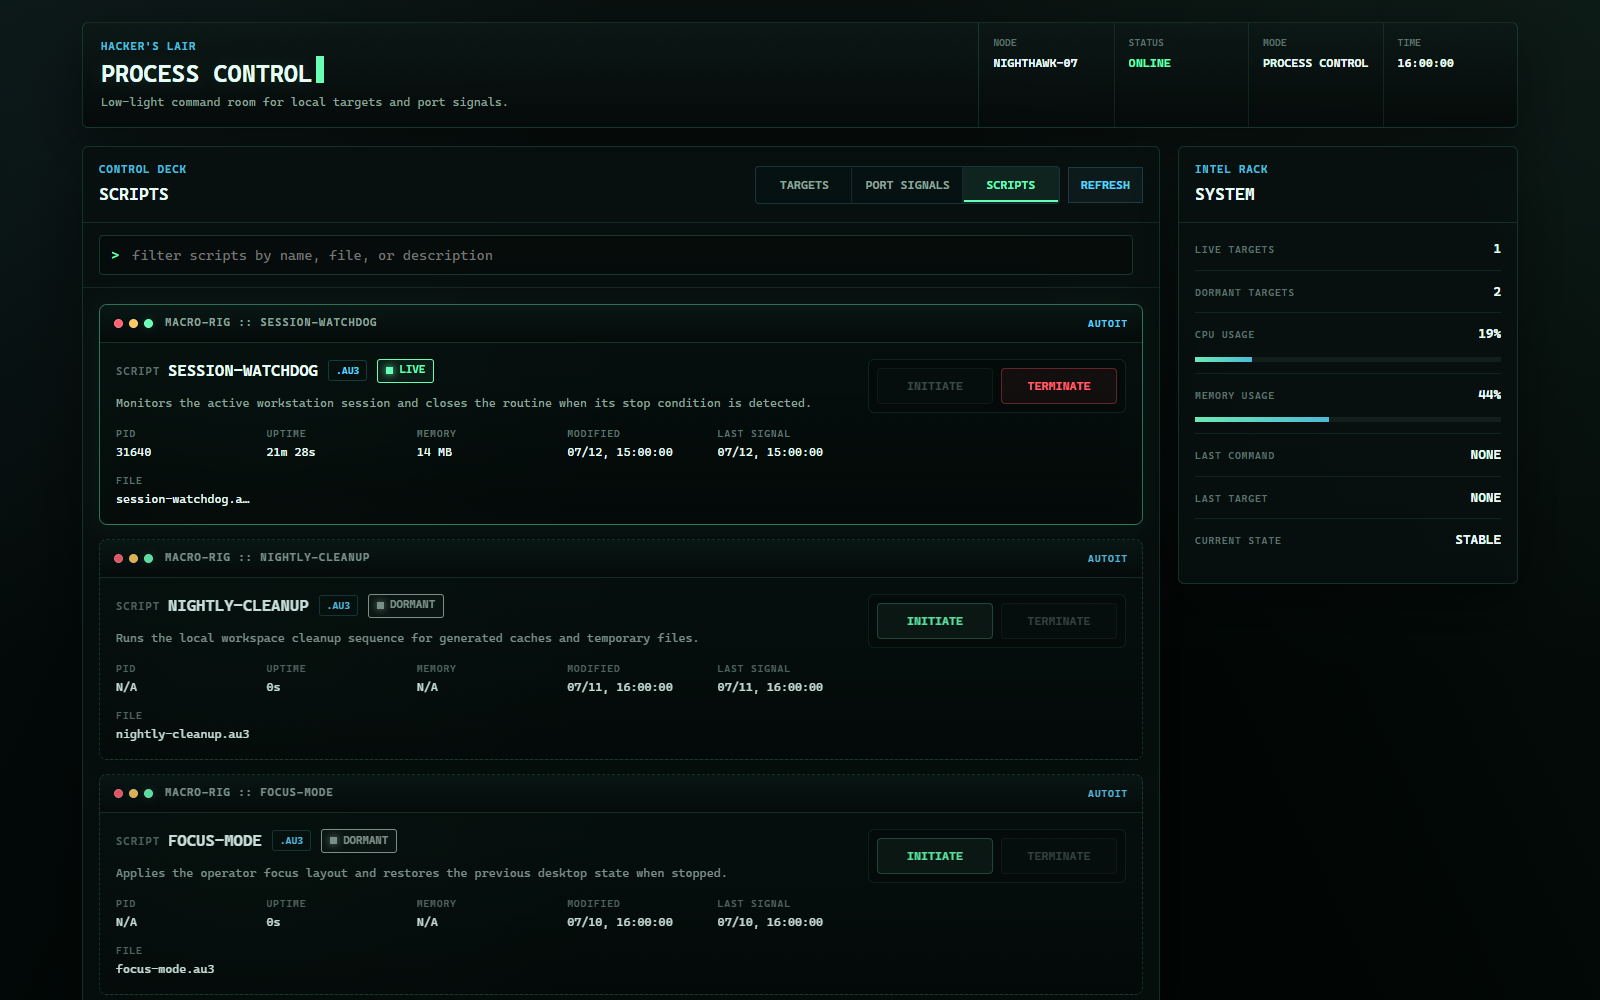
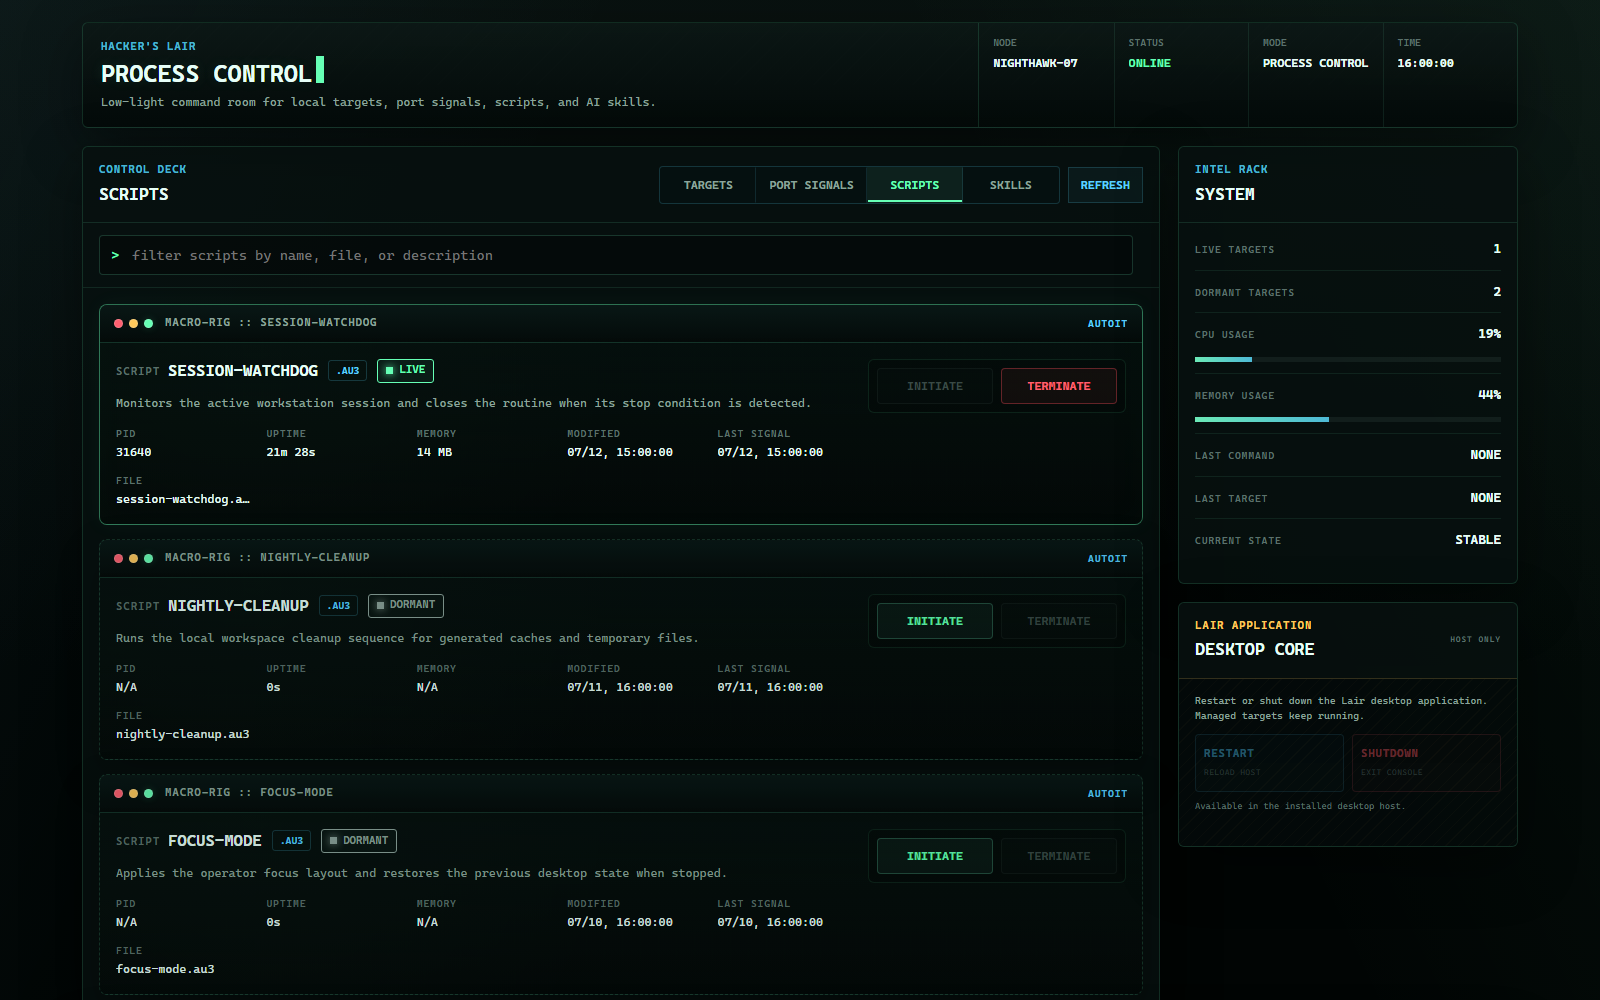
docs: refresh feature guide and screenshots

diff --git a/scripts/capture-readme-screenshots.js b/scripts/capture-readme-screenshots.js
@@ -14,9 +14,9 @@ const component = (name, role, port, running, pid) => ({
   uptimeSeconds: running ? 8421 : null, lastActionAt: now - 420000, livePorts: running ? [port] : [],
 });
 const projects = [
-  { name: 'nightwatch-relay', type: 'Vite + Node API', components: [component('relay-ui', 'frontend', 5173, true, 18420), component('relay-api', 'backend', 4100, true, 22108)], running: true, partial: false, errored: false, starting: false, pids: [18420, 22108], memKB: 372480, cpuPercent: 4.8, uptimeSeconds: 8421, lastActionAt: now - 420000 },
-  { name: 'atlas-worker', type: 'Python task runner', components: [component('atlas-worker', 'headless', null, true, 27144)], running: true, partial: false, errored: false, starting: false, pids: [27144], memKB: 92160, cpuPercent: 1.1, uptimeSeconds: 3644, lastActionAt: now - 910000 },
-  { name: 'static-forge', type: 'Next.js workspace', components: [component('static-forge', 'fullstack', 3000, false)], running: false, partial: false, errored: false, starting: false, pids: [], memKB: 0, cpuPercent: null, uptimeSeconds: null, lastActionAt: now - 7200000 },
+  { name: 'nightwatch-relay', type: 'Vite + Node API', gitBranches: ['feature/relay-observability'], components: [component('relay-ui', 'frontend', 5173, true, 18420), component('relay-api', 'backend', 4100, true, 22108)], running: true, partial: false, errored: false, starting: false, pids: [18420, 22108], memKB: 372480, cpuPercent: 4.8, uptimeSeconds: 8421, lastActionAt: now - 420000 },
+  { name: 'atlas-worker', type: 'Python task runner', gitBranches: ['main'], components: [component('atlas-worker', 'headless', null, true, 27144)], running: true, partial: false, errored: false, starting: false, pids: [27144], memKB: 92160, cpuPercent: 1.1, uptimeSeconds: 3644, lastActionAt: now - 910000 },
+  { name: 'static-forge', type: 'Next.js workspace', gitBranches: ['release/next'], components: [component('static-forge', 'fullstack', 3000, false)], running: false, partial: false, errored: false, starting: false, pids: [], memKB: 0, cpuPercent: null, uptimeSeconds: null, lastActionAt: now - 7200000 },
 ];
 const processes = [
   { pid: 18420, name: 'node.exe', label: 'Nightwatch UI', cmd: 'node vite.js', exePath: 'C:\\Program Files\\nodejs\\node.exe', cwd: 'C:\\Workspaces\\nightwatch-relay', memKB: 186240, uptimeSeconds: 8421, cpuPercent: 2.4, self: false, protected: false, system: false, ports: [{ port: 5173, addresses: ['127.0.0.1'] }] },
@@ -29,21 +29,32 @@ const scripts = [
   { file: 'nightly-cleanup.au3', path: 'C:\\Automation\\nightly-cleanup.au3', name: 'nightly-cleanup', description: 'Runs the local workspace cleanup sequence for generated caches and temporary files.', modifiedAt: now - 86400000, running: false, pids: [], pid: null, uptimeSeconds: null, memKB: 0 },
   { file: 'focus-mode.au3', path: 'C:\\Automation\\focus-mode.au3', name: 'focus-mode', description: 'Applies the operator focus layout and restores the previous desktop state when stopped.', modifiedAt: now - 172800000, running: false, pids: [], pid: null, uptimeSeconds: null, memKB: 0 },
 ];
+const skills = [
+  { id: 'personal-release-watch', name: 'release-watch', description: 'Checks release candidates for missing verification, migration notes, and rollback instructions.', kind: 'personal', origin: 'Workspace' },
+  { id: 'personal-accessibility-audit', name: 'accessibility-audit', description: 'Reviews product screens for keyboard access, focus order, contrast, and useful labels.', kind: 'personal', origin: 'Workspace' },
+  { id: 'personal-api-contract-review', name: 'api-contract-review', description: 'Validates API changes for compatibility, error behavior, and consumer impact.', kind: 'personal', origin: 'Workspace' },
+  { id: 'default-code-review', name: 'code-review', description: 'Reviews repository changes for correctness, reuse, simplicity, and efficiency.', kind: 'default', origin: 'Bundled' },
+];
 const fixtures = {
   '/api/system': { node: 'NIGHTHAWK-07', status: 'ONLINE', mode: 'PROCESS CONTROL', pid: 9000, port: 4949, cpuPercent: 18.7, memory: { totalKB: 33554432, freeKB: 18874368, usedPercent: 43.8 } },
   '/api/projects': { projects },
   '/api/processes': { self: 9000, port: 4949, processes, stopped },
   '/api/scripts': { scripts },
+  '/api/skills': { skills },
 };
 
-const injection = `<style>.boot-sequence{display:none!important}*,*::before,*::after{animation:none!important;transition:none!important}</style><script>
+const injection = `<style>
+  .boot-sequence,.signal-rain,.power-sequence{display:none!important}
+  body::before,body::after,.panel::before,h1[data-text]::before{content:none!important}
+  .cinematic-ready .topbar,.cinematic-ready .panel{animation:none!important;opacity:1!important;transform:none!important;clip-path:none!important}
+  *,*::before,*::after{animation:none!important;transition:none!important}
+</style><script>
   try { localStorage.clear(); } catch {}
   const FixedDate = Date;
   window.Date = class extends FixedDate {
     constructor(...args) { super(...(args.length ? args : [${now}])); }
     static now() { return ${now}; }
   };
-  window.requestAnimationFrame = () => 0;
   const demoFixtures = ${JSON.stringify(fixtures)};
   window.fetch = async (input) => {
     const key = Object.keys(demoFixtures).find((route) => String(input).startsWith(route));
@@ -53,7 +64,7 @@ const injection = `<style>.boot-sequence{display:none!important}*,*::before,*::a
     const bootSequence = document.getElementById('bootSequence');
     if (bootSequence) bootSequence.style.display = 'none';
     const view = location.hash.slice(1);
-    if (['processes', 'scripts'].includes(view)) document.querySelector('[data-view="' + view + '"]')?.click();
+    if (['processes', 'scripts', 'skills'].includes(view)) document.querySelector('[data-view="' + view + '"]')?.click();
   }, 120));
 </script>`;
 
@@ -69,10 +80,25 @@ fs.mkdirSync(outputDir, { recursive: true });
 const edge = process.env.EDGE_PATH || path.join(process.env['ProgramFiles(x86)'] || '', 'Microsoft', 'Edge', 'Application', 'msedge.exe');
 if (!fs.existsSync(edge)) throw new Error('Microsoft Edge was not found. Set EDGE_PATH to a Chromium executable.');
 
-for (const [name, hash] of [['targets', ''], ['port-signals', '#processes'], ['scripts', '#scripts']]) {
+for (const [name, hash] of [['targets', ''], ['port-signals', '#processes'], ['scripts', '#scripts'], ['skills', '#skills']]) {
   const output = path.join(outputDir, `${name}.png`);
+  const profile = path.join(os.tmpdir(), `hackers-lair-readme-${name}-${process.pid}`);
   fs.rmSync(output, { force: true });
-  spawnSync(edge, ['--headless=new', '--disable-gpu', '--hide-scrollbars', '--window-size=1600,1000', '--virtual-time-budget=6500', `--screenshot=${output}`, `${pathToFileURL(fixturePath).href}${hash}`], { stdio: 'pipe' });
+  fs.rmSync(profile, { recursive: true, force: true });
+  const capture = spawnSync(edge, [
+    '--headless=new',
+    '--disable-gpu',
+    '--hide-scrollbars',
+    '--no-first-run',
+    '--no-default-browser-check',
+    `--user-data-dir=${profile}`,
+    '--window-size=1600,1000',
+    '--virtual-time-budget=6500',
+    `--screenshot=${output}`,
+    `${pathToFileURL(fixturePath).href}${hash}`,
+  ], { encoding: 'utf8', stdio: 'pipe' });
+  fs.rmSync(profile, { recursive: true, force: true });
+  if (capture.status !== 0) throw new Error(`Edge failed to capture ${name}: ${capture.stderr.trim()}`);
   if (!fs.existsSync(output)) throw new Error(`Edge did not create ${output}.`);
   console.log(`Captured ${path.relative(root, output)}`);
 }

diff --git a/README.md b/README.md
@@ -5,7 +5,7 @@
 <h1 align="center">Hacker's Lair</h1>
 
 <p align="center">
-  <strong>A frameless Windows command room for projects, localhost ports, and automation scripts.</strong>
+  <strong>A frameless Windows command room for projects, localhost ports, automation scripts, and agent skills.</strong>
 </p>
 
 <p align="center">
@@ -38,14 +38,20 @@ window controls, and scrollbar. The control service listens only on
 
 ![Hacker's Lair Scripts view showing active and dormant automation modules](docs/screenshots/scripts.png)
 
+### Agent skills
+
+![Hacker's Lair Skills view showing fictional shared agent capabilities](docs/screenshots/skills.png)
+
 ## Control surfaces
 
 | Surface | What it controls |
 |---|---|
-| **Targets** | Starts or stops every configured component of a project as one unit, while retaining component-level status and logs. |
+| **Targets** | Starts or stops every configured component of a project as one unit, while showing component status, the checked-out Git branch, and logs. Live projects stay first; the most recently terminated project leads the dormant group. |
 | **Port Signals** | Shows listening localhost ports, labels known development servers, stops processes, and relaunches processes previously stopped by the console. |
 | **Scripts** | Discovers configured AutoIt scripts live and starts or stops them from the same interface. |
+| **Skills** | Live-scans the shared workspace agent skills and keeps bundled, system, and plugin defaults behind an optional filter. |
 | **Intel Rack** | Tracks live and dormant targets, CPU and memory pressure, recent commands, and current control state. |
+| **Desktop Core** | Runs guarded restart and shutdown sequences for the Electron host without stopping managed projects or the local control service. |
 | **Signal Tape** | Keeps an operator-readable event feed for starts, stops, refreshes, and failures. |
 | **Cinematic shell** | Runs a short secure-boot handoff, ambient signal rain, and scan passes without covering the controls. |
 
@@ -61,11 +67,16 @@ flowchart LR
     API --> PROJECTS["projects.json<br/>targets + components"]
     API --> WINDOWS["Windows process + port tools"]
     API --> SCRIPTS["scripts.json<br/>AutoIt discovery"]
+    API --> SKILLS[".agents/skills<br/>live shared skill discovery"]
     API --> FIREFOX["Firefox<br/>managed project UIs"]
 ```
 
 The Node service uses built-in modules and Windows tools such as `netstat`,
 `tasklist`, and `taskkill`. Electron is the only npm dependency.
+
+The Intel Rack's **Desktop Core** controls require two clicks within five
+seconds. **Restart** relaunches the Electron host; **Shutdown** exits it. Both
+leave managed targets and the background localhost control service running.
 
 ## Quick start
 
@@ -115,22 +126,27 @@ The service-only UI is also available at <http://localhost:4949>.
 
 ## Configure projects
 
-`projects.json` defines each target and its frontend, backend, or headless
-components. Paths and commands are intentionally explicit because detection is
-based on the process command line, not only a port number.
+`projects.json` defines each target and its frontend, backend, Docker stack, or
+headless components. Docker stacks declare their published `ports` as the
+authoritative readiness signal, so Hacker's Lair recognizes containers started
+inside or outside the app even though Docker owns the Windows listener process.
 
 To add your own project:
 
 1. Open `projects.json` and add one object inside its top-level `projects`
    array.
-2. Add one component for every process Hacker's Lair should start and stop.
+2. Add one component for every command Hacker's Lair should start and stop. A
+   Docker Compose project should normally be one `stack` component.
 3. Set each component's `cwd` to an existing absolute Windows folder and its
    `command` to the same command you would run from that folder in PowerShell.
 4. Use a distinctive absolute path or command token for `match`. Hacker's Lair
    uses this value to identify and stop the correct process.
-5. Set `port` to the expected listening port. For a worker or bot that never
-   opens a port, use `"port": null` and `"track": "process"`.
-6. Save the file and select **Refresh** in Hacker's Lair. The service reads the
+5. For Docker, set `ports` to the project's unique published readiness ports.
+   All must be listening before the stack is reported running. Use optional
+   `uiPorts` and `backendPorts` to classify them on the target card.
+6. Set `stopCommand` for Docker Compose. It runs when any declared port is live,
+   including when the stack was started outside Hacker's Lair.
+7. Save the file and select **Refresh** in Hacker's Lair. The service reads the
    configuration again without a restart.
 
 For example, add this object to the empty `projects` array and replace the
@@ -138,24 +154,20 @@ example paths with your own:
 
 ```json
 {
-  "name": "sample-workspace",
-  "type": "Node monorepo",
+  "name": "sample-docker-stack",
+  "type": "Docker Compose",
   "components": [
     {
-      "name": "backend",
-      "role": "backend",
-      "cwd": "C:\\Code\\sample-workspace\\api",
-      "command": "npm run dev",
-      "port": 4000,
-      "match": "C:\\Code\\sample-workspace\\api"
-    },
-    {
-      "name": "frontend",
-      "role": "frontend",
-      "cwd": "C:\\Code\\sample-workspace\\web",
-      "command": "npm run dev",
-      "port": 5173,
-      "match": "C:\\Code\\sample-workspace\\web"
+      "name": "stack",
+      "role": "fullstack",
+      "cwd": "C:\\Code\\sample-docker-stack",
+      "command": "docker compose -p sample-docker-stack up --build",
+      "stopCommand": "docker compose -p sample-docker-stack down",
+      "ports": [5173, 4000],
+      "uiPorts": [5173],
+      "backendPorts": [4000],
+      "track": "process",
+      "match": "-p sample-docker-stack up"
     }
   ]
 }
@@ -163,7 +175,13 @@ example paths with your own:
 
 - `cwd` is the component's working directory.
 - `command` is launched inside `cwd` in a detached, hidden process.
-- `port` is the expected listening port and is used as a display hint.
+- `stopCommand` is optional and runs inside `cwd` before any remaining matched
+  processes are terminated. It has a 60-second timeout.
+- `ports` opts into authoritative port detection. Keep these published ports
+  unique across projects; all declared ports are required for the running state.
+- `uiPorts` and `backendPorts` control where declared ports appear on the card.
+- Legacy `port` is a display/readiness hint for command-line-matched processes.
+- `detectByPort: true` remains supported for older single-port configurations.
 - `match` is a distinctive substring in the process command line. An absolute
   project path is the safest default.
 - `track: "process"` supports headless components that never bind a port.
@@ -178,9 +196,9 @@ Before refreshing the application, you can validate the JSON from PowerShell:
 Get-Content -Raw .\projects.json | ConvertFrom-Json | Out-Null
 ```
 
-No output means the JSON parsed successfully. If the same command or port is
-used by several projects, keep every `match` value unique; port numbers alone
-are not used to decide which process should be terminated.
+No output means the JSON parsed successfully. Authoritative `ports` must be
+unique across projects. Legacy components may share defaults such as `3000`
+because their distinctive `match` value still identifies the owning process.
 
 ## Configure scripts
 
@@ -224,12 +242,25 @@ configured executable and folder. Start and stop detection matches the script's
 absolute path in the AutoIt process command line, so keep script filenames
 distinct within the configured folder.
 
+### Skill discovery
+
+The **Skills** surface reads personal skill metadata directly from the shared
+workspace `.agents/skills/*/SKILL.md` folder. It re-scans while the surface is
+open, so adding, editing, or removing a personal skill does not require a
+Hacker's Lair restart.
+
+Personal skills are shown first as shared workspace capabilities. Selecting
+**Default Skills** switches to an exclusive view of bundled, system, and
+installed-plugin skills; selecting **Personal Skills** switches back. Only
+skill metadata is sent to the local UI; filesystem paths are not exposed.
+
 ## Repository map
 
 | Path | Responsibility |
 |---|---|
 | `public/index.html` | Complete Process Control interface and browser-side behavior |
 | `server.js` | Local HTTP service, process discovery, launch, stop, and log APIs |
+| `lib/skill-registry.js` | Live shared and default agent skill metadata discovery |
 | `desktop.js` | Frameless Electron window lifecycle |
 | `app-config.js` | Shared desktop name, Windows app identity, and icon-cache version |
 | `preload.js` | Restricted bridge for in-app window controls |
@@ -248,8 +279,8 @@ Edge is installed somewhere else.
 ## Operational notes
 
 - Runtime logs live under `logs/` and are ignored by Git.
-- `started.json` and `stopped.json` retain local launch state and are ignored by
-  Git.
+- `started.json`, `project-activity.json`, and `stopped.json` retain local launch
+  and ordering state and are ignored by Git.
 - A component startup failure stays visible on its target with the error and a
   link to the full log.
 - Closing the Electron window leaves the local service running so the next
